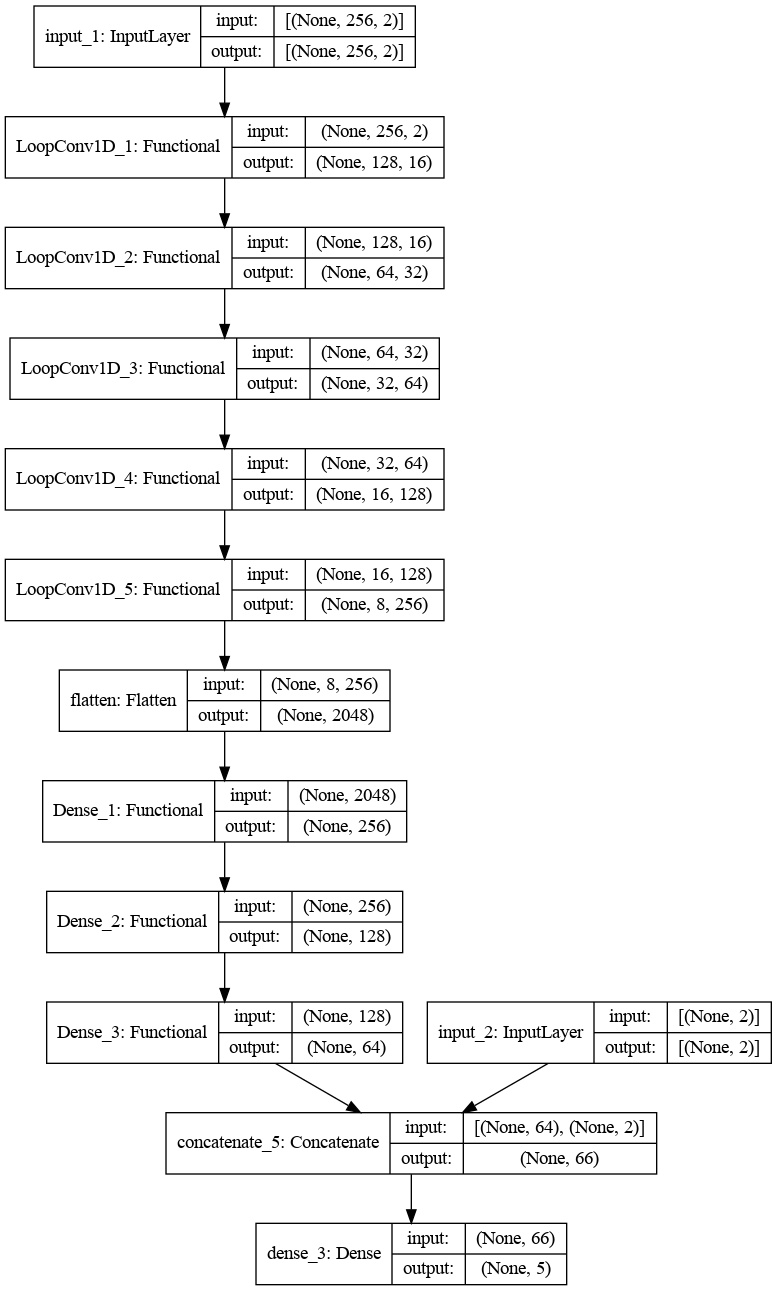
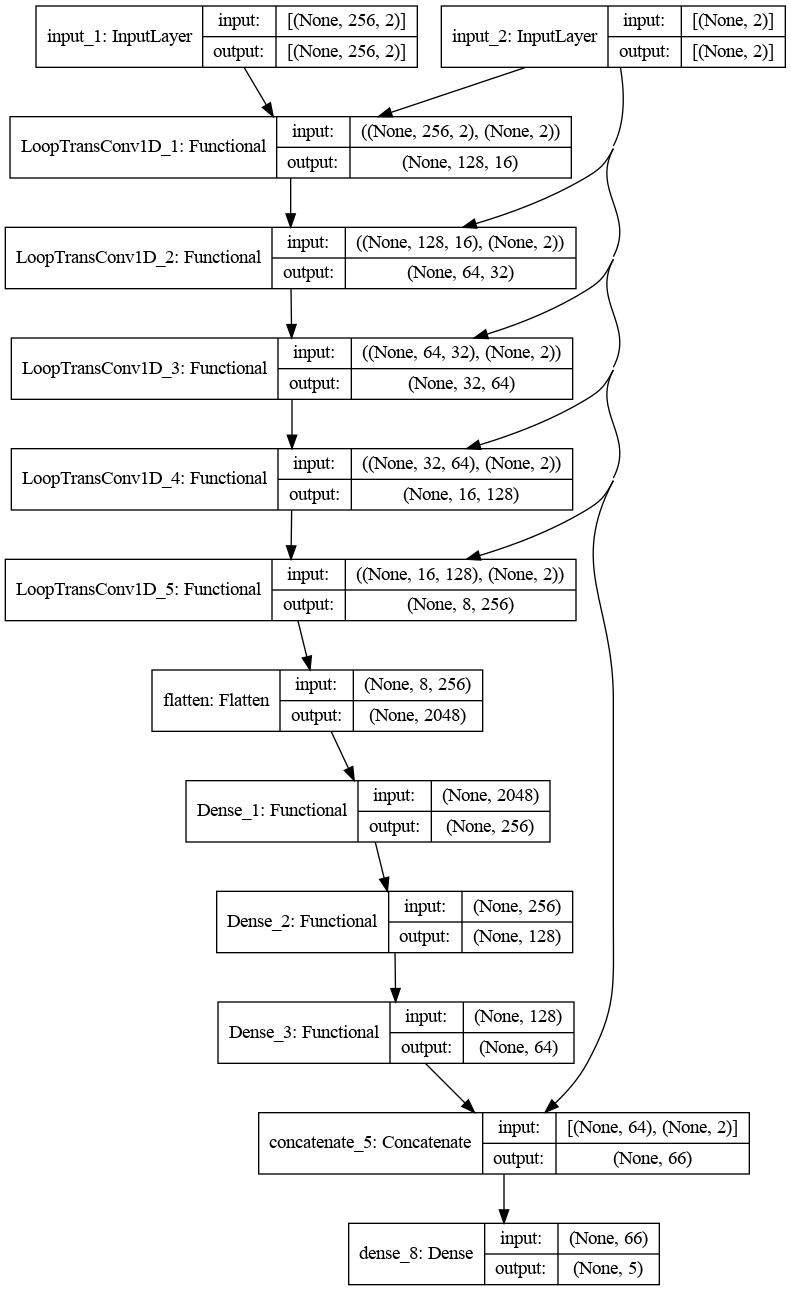
changed model architecture

diff --git a/model/model.py b/model/model.py
@@ -74,6 +74,35 @@ def conv1d_loop(input_data, filters: int, kernel_size=3, strides=1, groups=1, ac
     return output_layer(input_data)
 
 
+def conv1d_trans_loop(input_data, input_loc, filters: int, kernel_size=3, strides=1, groups=1, activation=layers.ReLU(),
+                      bn=True, activation_first=False, dropout=0.0, layer_names: list = None):
+    name = name_layer('LoopTransConv1D', layer_names=layer_names)
+
+    def layer(x, pos):
+        pad_size = int((kernel_size - 1) / 2)
+        if pad_size != 0:
+            x = layers.Concatenate(axis=1)([x[:, -pad_size:], x, x[:, :pad_size]])
+        x = layers.Conv1D(filters, kernel_size, strides, groups=groups)(x)
+        x_transform = layers.Dense(filters)(pos)
+        x = layers.multiply([x, x_transform])
+        if activation_first and (activation is not None):
+            x = activation(x)
+        if bn:
+            x = layers.BatchNormalization()(x)
+        if (not activation_first) and (activation is not None):
+            x = activation(x)
+        if dropout:
+            x = layers.Dropout(dropout)(x)
+        return x
+
+    input_layer = layers.Input(shape=input_data.shape[1:])
+    input_pos = layers.Input(shape=input_loc.shape[1:])
+    output_tensor = layer(input_layer, input_pos)
+
+    output_layer = Model((input_layer, input_pos), output_tensor, name=name)
+    return output_layer((input_data, input_loc))
+
+
 def pool1d_loop(input_data, pool_type='max', pool_size=3, strides=2, layer_names: list = None):
     name = name_layer(f'{pool_type}Pool', layer_names=layer_names)
 
@@ -138,18 +167,19 @@ def create_model() -> Model:
     def model(input_data, input_loc):
         layer_names = []
         x = input_data
+        x1 = input_loc
 
-        x = conv1d_loop(x, filters=16, kernel_size=11, strides=2, bn=True, dropout=0.2, layer_names=layer_names)
-        x = conv1d_loop(x, filters=32,  kernel_size=3, strides=2, bn=True, dropout=0.2, layer_names=layer_names)
-        x = conv1d_loop(x, filters=64,  kernel_size=3, strides=2, bn=True, dropout=0.2, layer_names=layer_names)
-        x = conv1d_loop(x, filters=128, kernel_size=3, strides=2, bn=True, dropout=0.2, layer_names=layer_names)
-        x = conv1d_loop(x, filters=256, kernel_size=3, strides=2, bn=True, dropout=0.2, layer_names=layer_names)
+        x = conv1d_trans_loop(x, x1, 16, kernel_size=11, strides=2, bn=True, dropout=0.2, layer_names=layer_names)
+        x = conv1d_trans_loop(x, x1, 32,  kernel_size=3, strides=2, bn=True, dropout=0.2, layer_names=layer_names)
+        x = conv1d_trans_loop(x, x1, 64,  kernel_size=3, strides=2, bn=True, dropout=0.2, layer_names=layer_names)
+        x = conv1d_trans_loop(x, x1, 128, kernel_size=3, strides=2, bn=True, dropout=0.2, layer_names=layer_names)
+        x = conv1d_trans_loop(x, x1, 256, kernel_size=3, strides=2, bn=True, dropout=0.2, layer_names=layer_names)
 
         x = layers.Flatten()(x)
         x = dense(x, 256, bn=True, dropout=0.1, layer_names=layer_names)
         x = dense(x, 128, dropout=0.1, layer_names=layer_names)
         x = dense(x, 64, layer_names=layer_names)
-        x = layers.Concatenate(axis=1)([x, input_loc])
+        x = layers.Concatenate(axis=1)([x, x1])
         x = layers.Dense(MODEL_OUTPUT, activation='sigmoid')(x)
         return x
 
@@ -206,13 +236,10 @@ if __name__ == '__main__':
     loop_net.summary()
     print()
 
-    # disc_net = create_encoder()
-    # disc_net.summary()
-
-    # in_ = (tf.random.uniform(shape=(8, MODEL_VISION, 2)),
-    #        tf.random.uniform(shape=(8, 2)))
-    # out = loop_net(in_)
-    # print(out)
+    in_ = (tf.random.uniform(shape=(2, MODEL_VISION, 2)),
+           tf.random.uniform(shape=(2, 2)))
+    out = loop_net(in_)
+    print(out)
 
     # a = loop_net.save_weights('/home/shin/Desktop/TouhouBulletHell/checkpoint/cp-01')
     # print(a)
